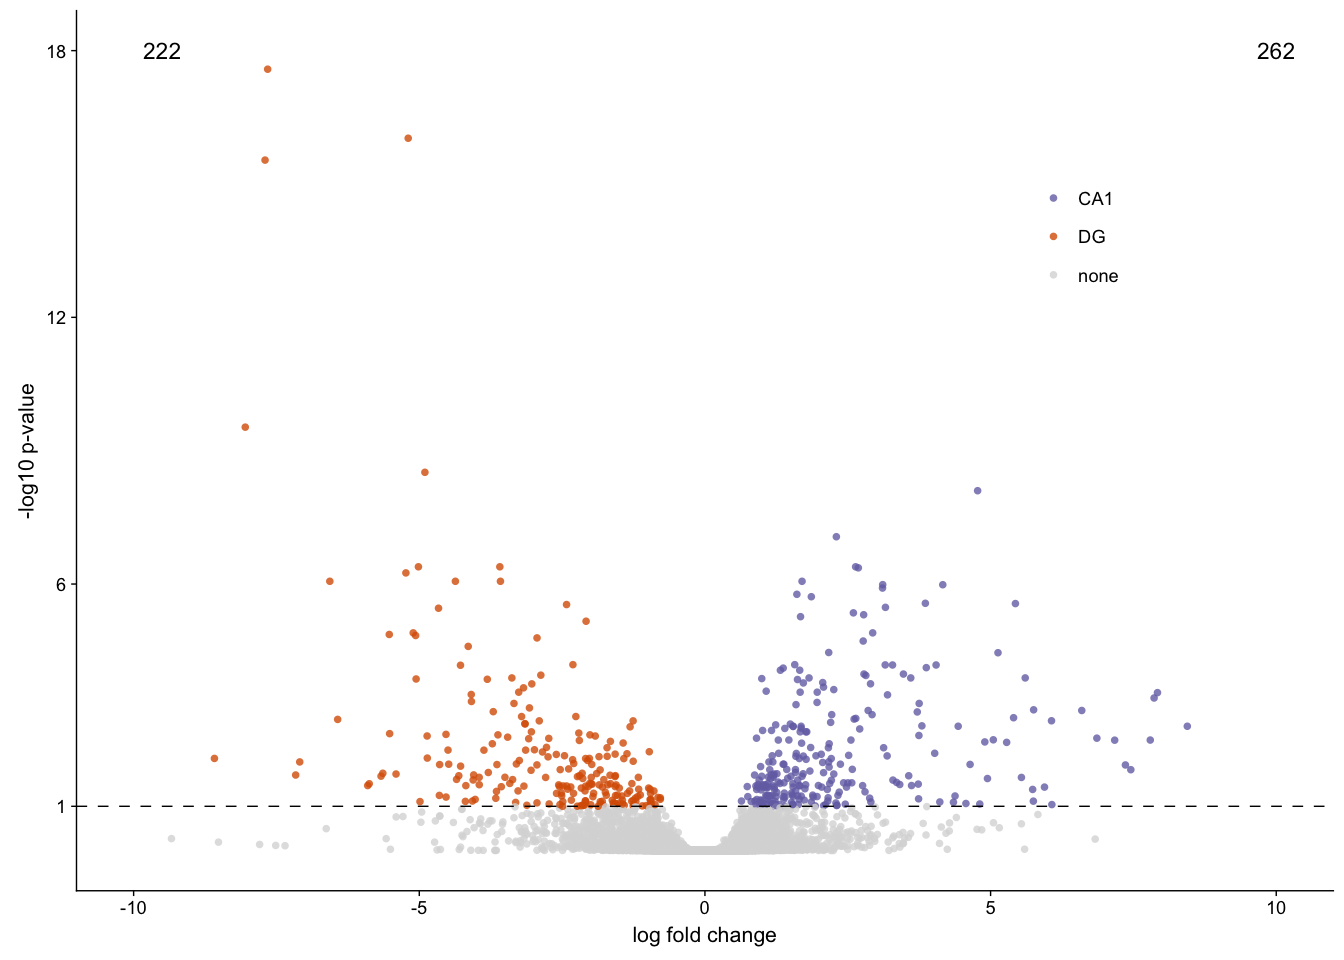
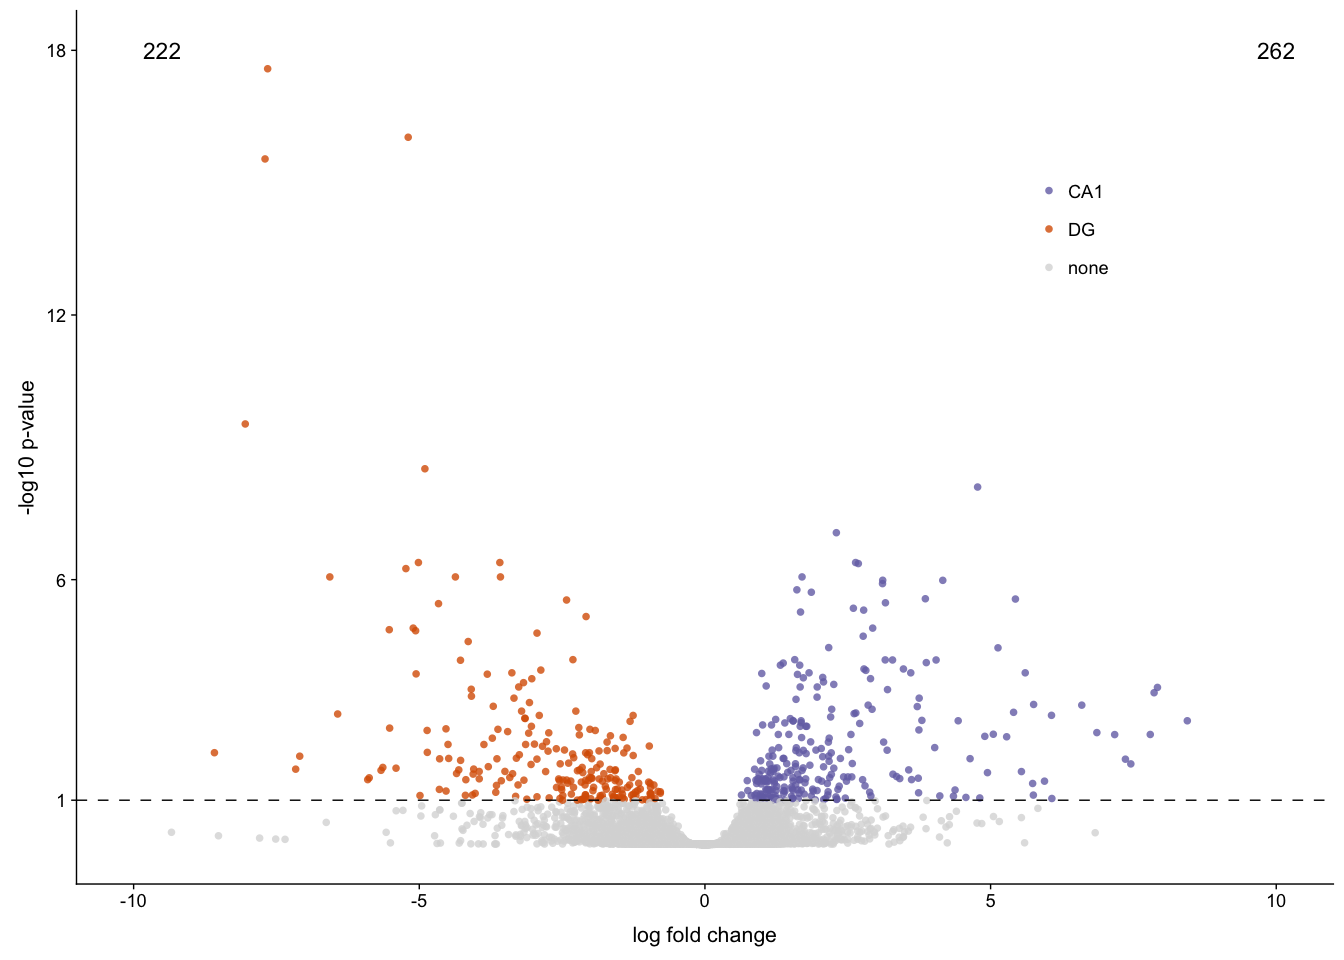
new color palete

diff --git a/scripts/04_heatmaps.md b/scripts/04_heatmaps.md
@@ -87,11 +87,13 @@ differentially expressed according to treatment.
     }
 
     #colorpalette
-    dissocation_colors <- list(Treatment = c(HOMO = (values=c("#ffffff")), 
-                                             DISS = (values=c("#525252"))),
+    dissocation_colors <- list(Treatment = c(HOMO = (values=c("dodgerblue2")), 
+                                             DISS = (values=c("firebrick1"))),
                                Subfield = c(CA1 = (values=c("#7570b3")),
                                             CA3 = (values=c("#1b9e77")), 
                                             DG = (values=c("#d95f02"))))
+
+
 
     # uses above "Heatmaps" function
     # usage: name of matrix, color palette, lengend, title
@@ -221,5 +223,3 @@ differentially expressed according to treatment.
     ## 10717 6.843024e-04
     ## 15431 8.223926e-04
     ## 3512  9.501459e-04
-
-![](../figures/04_heatmaps/heatmaps-1.png)
